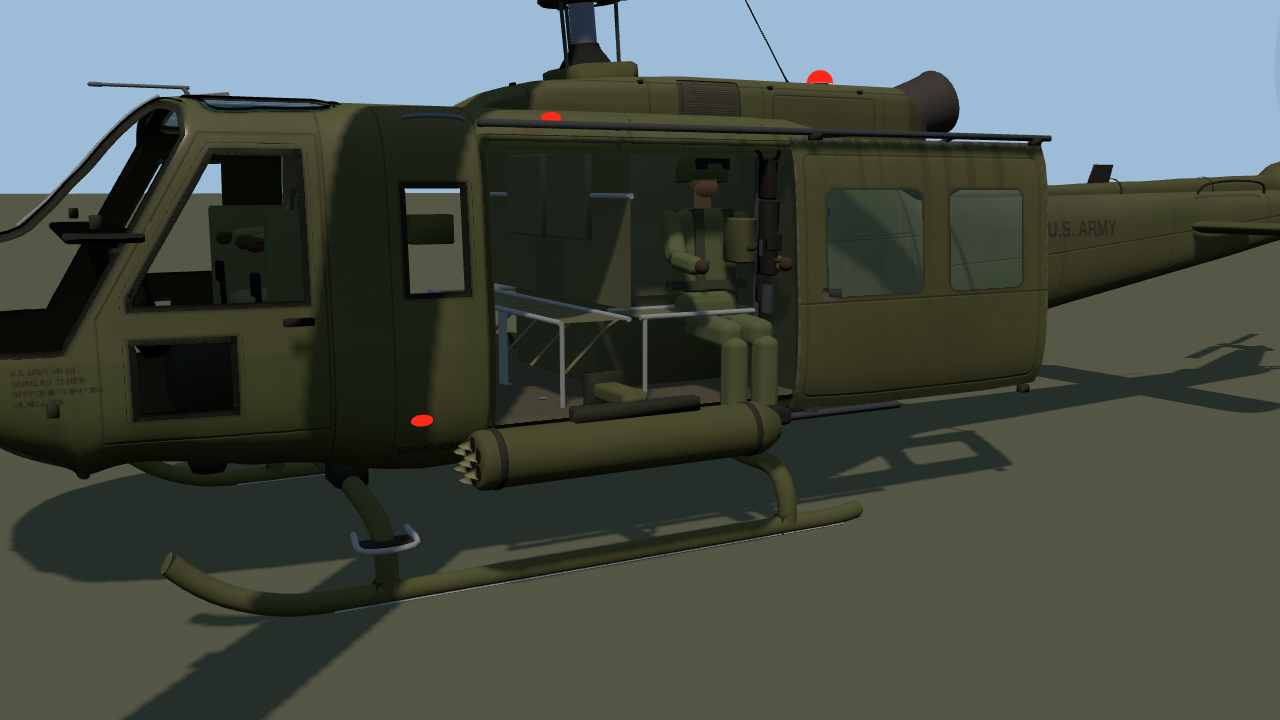
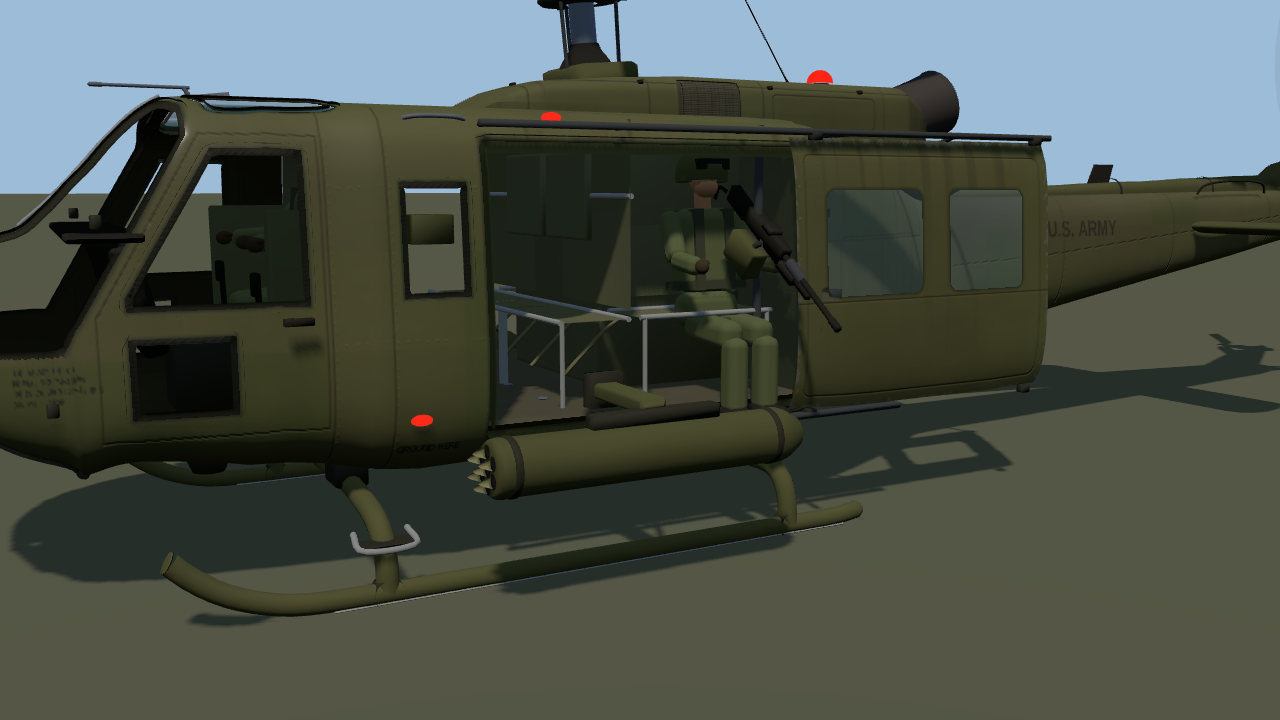
look-huey: arc-length skin texture space (one texel density nose to boom, keel seam), pods outboard of the skid line so the doorway places clear them, troops board aft of the pod and walk the door side; troop and checker evidence; findings

diff --git a/game/js/hueyhifi.js b/game/js/hueyhifi.js
@@ -17,7 +17,7 @@ import { crewGeometry, crewMaterial } from './interiors/crewfig.js';
 import { FIG } from './units/infantry/meshkit.js';
 import {
   TAU, clamp, sstep, mix, bodySurface, gridGeo, steps, stations, contours, surfStrip, stripProfile, airfoilLoft, naca,
-  rbox, smoothGeo, lathe, V3, alignY, rod, tube, merge, mirrorX, triCount, vnoise, fbm, hash2, glyphs, sdBox, sdPoly, bake, sweep,
+  rbox, smoothGeo, lathe, V3, alignY, rod, tube, merge, mirrorX, triCount, vnoise, fbm, hash2, glyphs, sdBox, sdPoly, bake, sweep, arcSpace,
 } from './hueygeo.js';
 import { UH1_TRACE } from './uh1trace.js';
 import { sampler, pl, smooth01, stationList, stationKeys } from './stationtable.js';
@@ -39,7 +39,7 @@ const GEO = Object.freeze({
   GUN: CABIN.GUN,                  // M60D pintle at the aft end of the cargo doorway (hueycabin.js)
   // M158 seven-tube 2.75 in rocket launchers (fit option) on the side-mounted universal mounts at cabin-floor level,
   // below the doorway's forward part and ahead of the door gunner: pod 0.27 m across, 1.68 m long (photos + XM156 mount)
-  PODS: [[-1.62, -1.13, -0.55], [1.62, -1.13, -0.55]], POD_R: 0.135, POD_L: 1.68,
+  PODS: [[-1.8, -1.13, -0.55], [1.8, -1.13, -0.55]], POD_R: 0.135, POD_L: 1.68,   // outboard of the skid line: a Marine on the sill (legs to x 1.61) clears it
   SKID: { x: 1.30, z0: -2.62, z1: 1.08, cross: [-1.71, 0.60] },   // 8 ft 6.6 in track, cross tubes from the side view
   ELEV: { z: 5.42, y: -0.22, chord: 0.775, span: 2.85 },          // 2 ft 6.5 in chord, 9 ft 4.3 in span
 });
@@ -121,7 +121,7 @@ const OD = [80, 84, 52];          // FS 34087 olive drab, lusterless (sRGB)
 const SOOT = [34, 33, 30], OIL = [42, 37, 28], BARE = [104, 104, 96], STENCIL = [24, 24, 21];   // BARE: worn-through primer/metal, dulled
 const lerp3 = (o, c, t) => { o.r += (c[0] - o.r) * t; o.g += (c[1] - o.g) * t; o.b += (c[2] - o.b) * t; };
 const lineMask = (d, w) => 1 - sstep(w * 0.5, w, Math.abs(d));
-function buildTextures(S, D, xr) {
+function buildTextures(S, D, xr, A) {
   if (TEX) return TEX;
   const t0 = performance.now();
   const g = {
@@ -136,8 +136,10 @@ function buildTextures(S, D, xr) {
   const R = xr ? 1 : 1.5;   // 1536 x 768 skin, ~8 mm texels on the cabin (start-up cost ~2 s); XR: 1024 x 512
   // ---- fuselage skin
   const P = {}; let z = 0, prm = null;
+  // the skin texture is in arc-length space (hueygeo.arcSpace): one texel density from the nose to the boom
   const skin = bake(1024 * R, 512 * R, (u, v, o) => {
-    const phi = v * TAU, side = phi < Math.PI ? 1 : -1, c = Math.cos(phi);
+    const phi = A.phiAt(v); if (phi === null) { o.r = OD[0]; o.g = OD[1]; o.b = OD[2]; return; }   // past this section's perimeter: unused
+    const side = phi < Math.PI ? 1 : -1, c = Math.cos(phi);
     S.at(z, phi, P); const x = P.x, y = P.y, ax = Math.abs(x);
     // noise coordinates continuous across the top and keel
     const wTop = c * c, nA = mix(fbm(z * 1.3, y * 1.3 + side * 7), fbm(z * 1.3 + 3, x * 1.3), wTop), nB = mix(vnoise(z * 9, y * 9 + side * 11), vnoise(z * 9 + 5, x * 9), wTop);
@@ -212,7 +214,7 @@ function buildTextures(S, D, xr) {
       else { lerp3(o, [26, 28, 24], t); }
     }
     o.bump = bump; o.rough = clamp(rough, 0.3, 1.2) / 1.2;
-  }, u => { z = S.z0 + u * (S.z1 - S.z0); prm = S.params(z); });
+  }, u => { z = S.z0 + u * (S.z1 - S.z0); prm = S.params(z); A.column(z); });
   // ---- doghouse (transmission and engine cowling)
   const dog = bake(512 * R, 256 * R, (u, v, o) => {
     const phi = v * TAU, side = phi < Math.PI ? 1 : -1, c = Math.cos(phi);
@@ -305,7 +307,8 @@ function lodify(m, U) {
 export function buildHueyHiFi(HUEY, { xr = false } = {}) {
   const g = new THREE.Group(); g.name = 'huey';
   const S = bodySurface(FUS), Dg = bodySurface(DOG);
-  const T = buildTextures(S, Dg, xr);
+  const AS = arcSpace(S), skinUV = (z, p) => AS.uv(z, p), PHK = n => steps(Math.PI, Math.PI + TAU, n);   // keel-seamed rings for the textured skin
+  const T = buildTextures(S, Dg, xr, AS);
   const U = { n: { value: new THREE.Vector2(0, 2) }, m: { value: new THREE.Vector2(2, 2) }, f: { value: new THREE.Vector2(2, 2) }, mf: { value: new THREE.Vector2(2, 2) }, nm: { value: new THREE.Vector2(0, 2) } };
   const reg = { n: [], m: [], f: [], mf: [], nm: [] };
   const stats = { texMs: T.ms };
@@ -370,13 +373,14 @@ export function buildHueyHiFi(HUEY, { xr = false } = {}) {
   const zNear = stations([[-3.69, -3.4, 0.015], [-3.4, -2.2, 0.04], [-2.2, 0.7, 0.16], [0.7, 2.9, 0.08], [2.9, 7.7, 0.25], [7.7, 8.0, 0.04]], [ZSPLIT, D0 - 0.02, D0, D1, D1 + 0.02, 7.98, 7.995]);
   const phN = PH(72);
   const zN0 = zNear.filter(z => z <= ZSPLIT), zN1 = zNear.filter(z => z >= ZSPLIT);
-  mesh(gridGeo(S, zN0, phN), N.skin, noseG, 'noseSkin');
-  mesh(gridGeo(S, zN0, phN, { off: -0.03 }), noseLiningN, noseG, 'noseLining');
-  mesh(gridGeo(S, zN1, phN), N.skin, lod0, 'fuselage');
+  const phK = PHK(72);
+  mesh(gridGeo(S, zN0, phK, { uv: skinUV }), N.skin, noseG, 'noseSkin');
+  mesh(gridGeo(S, zN0, phK, { off: -0.03, uv: skinUV }), noseLiningN, noseG, 'noseLining');
+  mesh(gridGeo(S, zN1, phK, { uv: skinUV }), N.skin, lod0, 'fuselage');
   const zMid = stations([[-3.69, -3.4, 0.05], [-3.4, -2.2, 0.15], [-2.2, 0.7, 1.45], [0.7, 2.9, 0.3], [2.9, 7.7, 1.2], [7.7, 8.0, 0.1]]);
-  mesh(gridGeo(S, zMid, PH(40)), Mm.skin, lod1, 'fuselageMid', 'm');
+  mesh(gridGeo(S, zMid, PHK(40), { uv: skinUV }), Mm.skin, lod1, 'fuselageMid', 'm');
   const zFar = stations([[-3.69, -3.4, 0.14], [-3.4, -2.2, 0.4], [-2.2, 0.7, 2.9], [0.7, 2.9, 0.7], [2.9, 7.7, 4.8], [7.7, 8.0, 0.3]]);
-  mesh(gridGeo(S, zFar, PH(16)), Fm.skin, lod2, 'fuselageFar', 'f');
+  mesh(gridGeo(S, zFar, PHK(16), { uv: skinUV }), Fm.skin, lod2, 'fuselageFar', 'f');
   // glass (near): the same surface 6 mm inside, masked to the window shapes; green greenhouse over the pilots
   {
     const zg = stations([[-3.6, -1.15, 0.045]]), ph = PH(80), gg = gridGeo(S, zg, ph, { off: -0.006, uv: (z, p) => [(z + 3.7) / 2.7, p / TAU] });

diff --git a/game/js/units/air/airlift/airlift.js b/game/js/units/air/airlift/airlift.js
@@ -27,7 +27,7 @@ import { createSling, loadOf, HOOKS, hookCheck, hookExt, downwashAt, LOADS } fro
 import { createSquad } from '../rotary/squad.js';
 import { FIGURES } from '../rotary/figures.js';
 import { createAirliftAudio } from './airliftaudio.js';
-import { TROOP_SEATS, TROOP_CAPACITY } from '../../../hueycabin.js';
+import { TROOP_SEATS, TROOP_CAPACITY, ENTRY_Z } from '../../../hueycabin.js';
 
 const clamp = (v, a, b) => Math.min(b, Math.max(a, v));
 const KT = 1.94384, LB = 0.45359237;
@@ -315,8 +315,10 @@ export function createAirlift(ctx) {
     Q.figs.forEach((F, i) => {
       const seat = SEATS[i], s = seat[0] < 0 ? -1 : 1;
       // in at the side of the seat: bent under the disc to the door, up onto the floor, to the seat
-      const sz = Math.min(0.55, Math.max(-1.0, seat[2])), front = seat[2] < -1 ? seat[2] + 0.35 : seat[2] > -0.2 ? seat[2] : seat[2] - 0.32;   // through the doorway, then in front of the seat
-      F.lpath = [stick[i], { x: s * 2.7, y: SK, z: sz - 0.3, g: true }, { x: s * 2.0, y: SK, z: sz, g: true }, { x: s * 1.25, y: -1.08, z: sz }, { x: Math.abs(seat[3]) === Math.PI / 2 ? seat[0] * 1.15 : seat[0], y: -1.07, z: front }, { x: seat[0], y: -1.07, z: seat[2] }];
+      const sz = ENTRY_Z, front = seat[2] < -1 ? seat[2] + 0.35 : seat[2] > -0.2 ? seat[2] : seat[2] - 0.32;   // through the doorway, then in front of the seat
+      // in over the sill aft of the pod, forward along the door side (outboard of the well seat), round the bench end
+      const lane = [{ x: s * 1.12, y: -1.07, z: sz - 0.35 }, ...(seat[2] < -0.5 ? [{ x: s * 1.12, y: -1.07, z: -0.98 }] : [])];
+      F.lpath = [stick[i], { x: s * 2.7, y: SK, z: sz + 0.3, g: true }, { x: s * 2.0, y: SK, z: sz, g: true }, { x: s * 1.25, y: -1.08, z: sz }, ...lane, { x: Math.abs(seat[3]) === Math.PI / 2 ? seat[0] * 1.15 : seat[0], y: -1.07, z: front }, { x: seat[0], y: -1.07, z: seat[2] }];
     });
     AL.troops = { Q, st: 'boarding', t: 0, where, aboard: () => Q.figs.filter(F => F.st === 'aboard').length };
     feed(`${where}: A SQUAD OF ${TROOPS.N} MARINES FOR THE HUEY (${TROOPS.COST} MATERIEL)`, 'good');
@@ -334,7 +336,7 @@ export function createAirlift(ctx) {
       G.mat += TROOPS.COST; Q.dispose(); AL.troops = null; feed(`${svc.name}: THE SQUAD IS BACK IN THE BARRACKS`, 'info'); say('SQUAD DISMOUNTED  -  BACK TO THE BARRACKS', 1.6); return;
     }
     // out of both doors: seat -> door sill -> the ground beside the skid, a few metres out
-    const paths = [-1, 1].map(s => [[s * 0.6, -1.07, -0.75], [s * 1.35, -1.07, -0.55], [s * 2.3, -1.84, -0.55], [s * 4.5, -1.84, -0.95]].map(([x, y, z]) => toWorld(x, y, z, { x: 0, y: 0, z: 0 })));
+    const paths = [-1, 1].map(s => [[s * 0.6, -1.07, ENTRY_Z - 0.2], [s * 1.35, -1.07, ENTRY_Z], [s * 2.3, -1.84, ENTRY_Z + 0.1], [s * 4.5, -1.84, ENTRY_Z + 0.6]].map(([x, y, z]) => toWorld(x, y, z, { x: 0, y: 0, z: 0 })));
     for (const p of paths) for (let k = 2; k < p.length; k++) p[k].y = groundY(p[k].x, p[k].z);
     Q.deploy(paths[0], [{ x: paths[0][3].x, z: paths[0][3].z, yaw: 0 }], 0.5);
     let k = 0;

diff --git a/game/js/hueygeo.js b/game/js/hueygeo.js
@@ -81,6 +81,34 @@ export function bodySurface(keys) {
   return { at, normal, params: z => tr(z, []), z0, z1, yToPhi, xToPhi };
 }
 
+// ------------------------------------------------------------------------------------- arc-length texture space
+// One texel density over a lofted body: u = z along the body (its side lines are near straight), v = arc length round
+// each section from the keel (phi = PI), both in metres / the longest perimeter, so a boom section uses a fifth of the
+// v range at the cabin's density; the seam sits on the keel centre line.
+//   const A = arcSpace(S);  A.uv(z, phi) -> [u, v];  A.column(z) then A.phiAt(v) -> phi (or null past the perimeter)
+export function arcSpace(S, { n = 256, zs = 96 } = {}) {
+  const o = {}, perim = z => { let L = 0, px = 0, py = 0; for (let i = 0; i <= n; i++) { S.at(z, Math.PI + TAU * i / n, o); if (i) L += Math.hypot(o.x - px, o.y - py); px = o.x; py = o.y; } return L; };
+  let Pmax = 0; for (let i = 0; i <= zs; i++) Pmax = Math.max(Pmax, perim(S.z0 + (S.z1 - S.z0) * i / zs));
+  const tab = new Float64Array(n + 1);
+  const build = z => { let L = 0, px = 0, py = 0; for (let i = 0; i <= n; i++) { S.at(z, Math.PI + TAU * i / n, o); if (i) L += Math.hypot(o.x - px, o.y - py); px = o.x; py = o.y; tab[i] = L; } return L; };
+  let cz = NaN, cP = 0;
+  const A = {
+    Pmax,
+    column(z) { if (z !== cz) { cz = z; cP = build(z); } return cP; },
+    uv(z, phi) {
+      A.column(z); let t = ((phi - Math.PI) % TAU + TAU) % TAU; if (phi - Math.PI >= TAU - 1e-9) t = TAU;
+      const f = t / TAU * n, i = Math.min(n - 1, Math.floor(f)), s = tab[i] + (tab[i + 1] - tab[i]) * (f - i);
+      return [(z - S.z0) / (S.z1 - S.z0), s / Pmax];
+    },
+    phiAt(v) {   // for the current column
+      const s = v * Pmax; if (s > cP) return null;
+      let a = 0, b = n; while (b - a > 1) { const m = (a + b) >> 1; if (tab[m] <= s) a = m; else b = m; }
+      const f = (s - tab[a]) / Math.max(1e-9, tab[b] - tab[a]); return (Math.PI + TAU * (a + f) / n) % TAU;
+    },
+  };
+  return A;
+}
+
 // grid mesh over a surface: zs (stations), phis (around), off = offset along the normal, keep(i, j) per quad,
 // uv(z, phi) -> [u, v] (default: z over the surface length, phi / TAU)
 export function gridGeo(S, zs, phis, { off = 0, keep = null, uv = null, flip = false } = {}) {

diff --git a/game/dev/huey-preview.js b/game/dev/huey-preview.js
@@ -6,6 +6,8 @@ import * as THREE from 'three';
 import '../js/heli.js';   // first: heli.js <-> hueycockpit.js are circular, the game enters through heli.js
 import { buildHueyMesh, HUEY } from '../js/hueymodel.js';
 import { buildHueyCockpit, HUEY_EYE, HUEY_EYE_PITCH } from '../js/hueycockpit.js';
+import { TROOP_SEATS, DOOR_PLACES } from '../js/hueycabin.js';
+import { crewGeometry, crewMaterial } from '../js/interiors/crewfig.js';
 
 const Q = new URLSearchParams(location.search);
 const renderer = new THREE.WebGLRenderer({ antialias: true }); renderer.setPixelRatio(Math.min(2, devicePixelRatio)); document.body.prepend(renderer.domElement);
@@ -24,6 +26,11 @@ const huey = buildHueyMesh(); scene.add(huey.group);
 if (Q.get('rot')) { const [rx, ry, rz] = Q.get('rot').split(',').map(Number); huey.group.rotation.set(rx || 0, ry || 0, rz || 0, 'YXZ'); }   // attitude (pitch, yaw, roll), e.g. to match a photo
 const buildMs = performance.now() - t0;
 huey.group.traverse(o => { if (o.isMesh && !o.material.transparent) { o.castShadow = true; o.receiveShadow = true; } });
+// &troops=1: seated Marines in every troop seat and both doorway places (the player's seat anchors, hueycabin.js)
+if (Q.get('troops') === '1') {
+  const geo = crewGeometry('marine', 'seated', { arms: 'rifle', seed: 4 }), mat = crewMaterial();
+  for (const T of [...TROOP_SEATS, ...DOOR_PLACES]) { const m = new THREE.Mesh(geo, mat); m.position.set(T.x, T.kind === 'door' ? -1.05 : -0.58, T.z); m.rotation.y = T.yaw + Math.PI; m.name = 'troop'; huey.group.add(m); }
+}
 // &checker=1: every baked (UV-mapped) surface shows a 16 x 16 checker instead of its paint: texel density and seams
 if (Q.get('checker') === '1') {
   const cv = document.createElement('canvas'); cv.width = cv.height = 512; const c = cv.getContext('2d');

diff --git a/game/js/hueycabin.js b/game/js/hueycabin.js
@@ -30,7 +30,9 @@ export const TROOP_SEATS = [
 ];
 // the doorway places (an option, not seats): on the floor, legs over the sill
 export const DOOR_PLACES = [
-  { id: 'doorL', label: 'LEFT DOOR', kind: 'door', x: -0.98, z: -0.9, yaw: Math.PI / 2 },
-  { id: 'doorR', label: 'RIGHT DOOR', kind: 'door', x: 0.98, z: -0.9, yaw: -Math.PI / 2 },
+  { id: 'doorL', label: 'LEFT DOOR', kind: 'door', x: -0.98, z: -1.0, yaw: Math.PI / 2 },
+  { id: 'doorR', label: 'RIGHT DOOR', kind: 'door', x: 0.98, z: -1.0, yaw: -Math.PI / 2 },
 ];
+// where troops climb in and out: the doorway's aft part, between the rocket pod's tail (z 0.29) and the M60D (z 0.56)
+export const ENTRY_Z = 0.43;
 export const TROOP_CAPACITY = TROOP_SEATS.length;   // 9 with the crew chief and the gunner aboard (11 seats)

diff --git a/docs/ngc1980/findings/look-huey.md b/docs/ngc1980/findings/look-huey.md
@@ -84,11 +84,14 @@ UH-1H (1987) show the hub on the near side of a right-side view; so does the use
 ### 2026-10-28 - Mirrored stencils, stretched texels
 **Finding:** the NO STEP stencils on the roof read upside down from beside the aircraft; the roof texels were crushed
 (the |cos|^(2/n) superellipse parameterisation put a squarish roof into a few degrees of phi).
-**Action:** stencil tops inboard; sections use the ray parameterisation (even spacing round the section). Markings
-checked from outside: `evidence/look-huey/markings_1.png` (U.S. ARMY both boom sides, NO STEP), `markings_2.png`
-(data block, FUEL, serial both fin sides); checker: `evidence/look-huey/checker.png` (`?checker=1`). Texel density
-still varies with section perimeter (the boom gets ~5x the texels per metre of the cabin); paint, wear, panel lines
-and rivets are computed from 3D position, so they stay at a constant scale.
+**Action:** stencil tops inboard; sections use the ray parameterisation (even spacing round the section); the skin is
+now in arc-length texture space (`hueygeo.arcSpace`): u = z, v = arc length round each section from the keel, both
+over the longest perimeter, so the boom and the cabin get the same ~9 mm texels and the seam is on the keel centre
+line; the bake inverts the same mapping per column. Markings checked from outside: `evidence/look-huey/markings_1.png`
+(U.S. ARMY both boom sides, NO STEP), `markings_2.png` (data block, FUEL, serial both fin sides). The "U.S. ON" seen in
+the top view of markings_1 is the far side's NO STEP, upside down from that camera (each stencil reads from its own
+side). Checker (`?checker=1`): `checker_before.png` (phi / TAU: boom squares ~5x denser) vs `checker_after_side.png`,
+`checker_after_top.png` (one density).
 
 ### 2026-10-28 - Troop cabin to the TM seating
 **Finding:** the cabin had a 4-place bench and 2 door places; the -23 describes eleven: five across facing forward
@@ -104,7 +107,10 @@ just aft of the M60D pintle (z 0.56).
 ### 2026-10-28 - Rocket pods
 **Finding:** the M158 pods were 0.41 m across and hung beside the windows. **Action:** 0.27 m across, 1.68 m long,
 seven tubes at 79 mm pitch, on the side mounts at cabin-floor level below the doorway's forward part (centre y -1.13,
-x 1.62, z -0.55), arm to a floor-level hard point, drag brace. Kept as a fit option. Evidence: `pods_door.png`.
+x 1.80, z -0.55: outboard of the skid line), arm to a floor-level hard point, drag brace. Kept as a fit option.
+Clearance: a Marine on the doorway sill (legs to x 1.61, y -1.50) clears the pod (x >= 1.665); troops board and dismount
+through the doorway's aft part (z 0.43, between the pod's tail at z 0.29 and the M60D at 0.56) and walk forward along
+the door side. Evidence: `pods_door.png`, `troops_doorway.png` (all nine seats and both doorway places filled).
 
 ## 1980 configuration table (US Army UH-1H, transport fit with door guns; rocket pods as a fit option)
 
@@ -164,6 +170,17 @@ Done 22 / 39 rows (56 %), partial 11, todo 6.
 | 300 m | far | 1.9 k | 17 |
 
 The near LOD includes ~11 k for the four crew figures and the interior. SwiftShader timings are relative only.
+
+## Regression status (2026-10-28, machine at load average 40-68 from other agents' browsers)
+
+| Check | Result |
+|---|---|
+| `node tools/check.mjs syntax` | PASS 544/544; no conflict markers |
+| smoke | PASS 5/5 |
+| hueymodel, hueycockpit | unverified (load): page navigation timed out at 30 s before the scene started; re-run pending |
+| airlift | unverified (load): FAIL in the sling hook-up (the hover never held steady 0.6 s at ~1 fps, 40 s per screenshot), before the troop lift; expectations updated to nine troops / 945 kg |
+| foot | unverified (load): ladder and walk waits timed out (no Huey code involved), the Huey boarding step not reached in time |
+| interiors, hueyhotas, xrgameplay | see the final report |
 
 ## Still open
 - Cockpit to the -10 panel figures (DCS level): only the glazing now comes from the exterior skin; the furniture is
